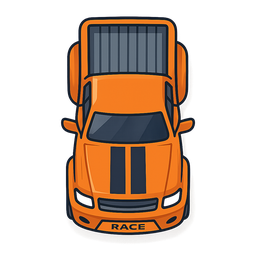
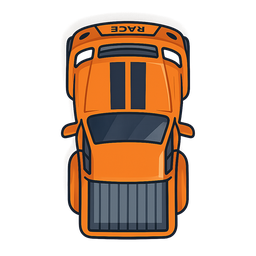
Usar los sprites de coche tambien en carrera (todos, incl. basico); orientacion unificada hacia arriba — v23

diff --git a/index.html b/index.html
@@ -97,7 +97,7 @@
   <p class="small">🏁 Circuito: <b id="trackName" style="color:#ffd34d">Clásico</b> &nbsp;<span style="opacity:.7">(cambia con <b>7</b> ▸ / <b>9</b> ◂)</span> &nbsp;·&nbsp; <b>6</b> → Hi-Scores 🏆</p>
   <p class="small">Récord de vuelta: <span id="lapRecord">—</span> &nbsp;·&nbsp; Récord de carrera (3 vueltas): <span id="raceRecord">—</span></p>
   <p class="small" id="diag" style="opacity:.6">Diagnóstico: …</p>
-  <div id="ver" style="position:absolute;bottom:8px;right:12px;font-size:1.7vh;opacity:.55">v22</div>
+  <div id="ver" style="position:absolute;bottom:8px;right:12px;font-size:1.7vh;opacity:.55">v23</div>
 </div>
 
 <!-- TIENDA -->
@@ -268,6 +268,9 @@ const CARS = [
   { id:9, name:'Bala Arcoíris',  price:500, shape:'bala',      body:'#9b59b6', accent:'#ffffff' },
 ];
 function carById(id){ return CARS.find(c=>c.id===id) || CARS[0]; }
+// precarga de las imágenes (todas apuntan hacia ARRIBA: -y)
+const carImages = {};
+CARS.forEach(c=>{ const im=new Image(); im.src='assets/cars/'+c.id+'.png'; carImages[c.id]=im; });
 
 // Perfiles de teclado: cada uno usa TECLAS DISTINTAS para que dos jugadores
 // puedan compartir el mismo "teclado" (mando TV con números + 2º teclado con letras).
@@ -456,7 +459,7 @@ function newPlayer(src){
   const p = {
     id: idx, src, pal,
     nameIdx, name: roster[nameIdx],            // nombre elegido del roster (gira ◀▶ en lobby)
-    body: pal.body, accent:'#bfe3ff', shape:'basico',   // coche (se ajusta al equipado)
+    body: pal.body, accent:'#bfe3ff', shape:'basico', carId:0,   // coche (se ajusta al equipado)
     assistWalls: src.type==='kb' && src.profile===1,  // el 2º teclado (Lenovo) lleva paredes
     points: 0,                 // campeonato acumulado
     // estado de carrera reiniciable:
@@ -472,6 +475,7 @@ function refreshPlayerCar(p){
   p.body = sty ? sty.body : p.pal.body;
   p.accent = sty ? sty.accent : '#bfe3ff';
   p.shape = sty ? sty.shape : 'basico';
+  p.carId = getGarage(p.name).selected;   // id del coche equipado (0 = básico)
 }
 function hasKbProfile(i){ return players.some(p=>p.src.type==='kb'&&p.src.profile===i); }
 function hasPadPlayer(i){ return players.some(p=>p.src.type==='pad'&&p.src.index===i); }
@@ -1050,10 +1054,19 @@ function drawCarBody(g, shape, body, accent){
   heads(15); tails(-16); shine(-6,-9,10,2.5);
 }
 function drawCar(p){
-  const c=p.car; ctx.save(); ctx.translate(c.x,c.y); ctx.rotate(c.angle);
-  if(p.boostT>0){ ctx.fillStyle='rgba(255,180,60,.85)'; ctx.beginPath(); ctx.moveTo(-17,-6); ctx.lineTo(-30-Math.random()*8,0); ctx.lineTo(-17,6); ctx.fill(); }
-  ctx.fillStyle='rgba(0,0,0,.3)'; ctx.beginPath(); ctx.ellipse(0,0,19,12,0,0,Math.PI*2); ctx.fill();
-  drawCarBody(ctx, p.shape, p.body, p.accent);
+  const c=p.car; ctx.save(); ctx.translate(c.x,c.y);
+  // sombra (sin rotar)
+  ctx.fillStyle='rgba(0,0,0,.3)'; ctx.beginPath(); ctx.ellipse(0,0,20,13,0,0,Math.PI*2); ctx.fill();
+  // llama de turbo, detrás del coche (en el sentido de la marcha)
+  if(p.boostT>0){ ctx.save(); ctx.rotate(c.angle); ctx.fillStyle='rgba(255,180,60,.85)';
+    ctx.beginPath(); ctx.moveTo(-18,-6); ctx.lineTo(-32-Math.random()*8,0); ctx.lineTo(-18,6); ctx.fill(); ctx.restore(); }
+  const img=carImages[p.carId];
+  if(img && img.complete && img.naturalWidth){
+    // la imagen apunta hacia ARRIBA (-y); +PI/2 alinea su morro con el rumbo (+x)
+    ctx.save(); ctx.rotate(c.angle + Math.PI/2); const S=48; ctx.drawImage(img, -S/2, -S/2, S, S); ctx.restore();
+  } else {
+    ctx.save(); ctx.rotate(c.angle); drawCarBody(ctx, p.shape, p.body, p.accent); ctx.restore();
+  }
   ctx.restore();
   // etiqueta con el nombre elegido (con contorno para que se lea sobre la pista)
   ctx.font='bold 16px system-ui'; ctx.textAlign='center';